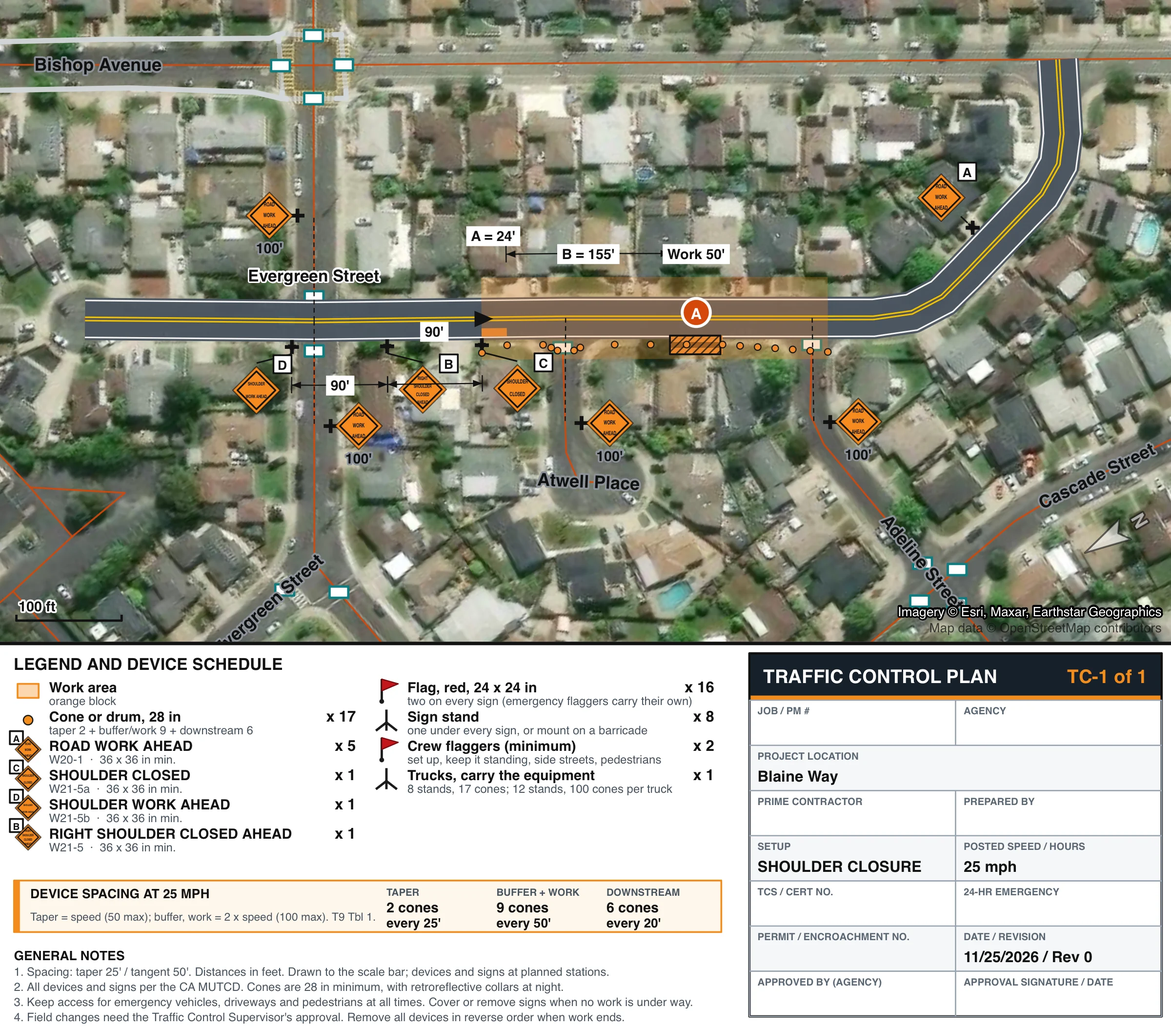
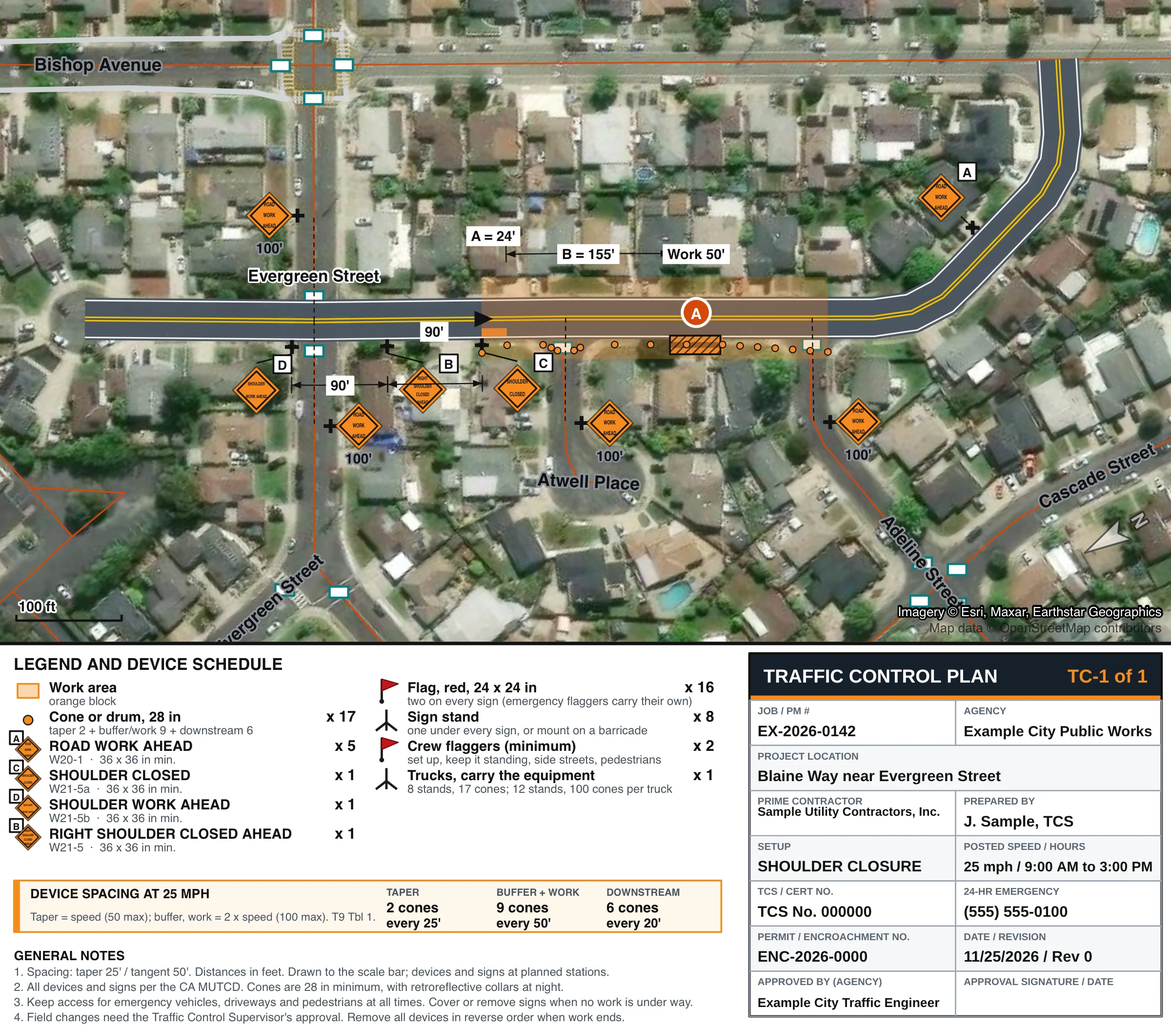
Homepage: filled-out submittal example (generic title block), new Submittal section
Claude-Session: https://claude.ai/code/session_013ikpAv8jeBeDqLtfD8VX2L

diff --git a/index.html b/index.html
@@ -153,6 +153,14 @@ footer a{color:#ffb77d}
 .price .card.pop::before{content:"Most popular";position:absolute;top:-12px;left:18px;background:var(--or);color:#fff;font-size:12px;font-weight:800;border-radius:99px;padding:3px 12px}
 .price ul{margin:10px 0 14px;padding-left:18px;color:var(--mut);font-size:15px}
 .price .btn{margin-top:auto;text-align:center}
+.sub{display:grid;grid-template-columns:minmax(0,1.5fr) minmax(0,1fr);gap:32px;align-items:start}
+.sub .paper{display:block;width:100%;padding:0;border:1px solid var(--line);background:#fff;cursor:zoom-in}
+.sub .paper img{display:block;width:100%;height:auto}
+.subtxt h3{margin:0 0 10px}
+.tbk{width:100%;border-collapse:collapse;font-size:15px}
+.tbk th,.tbk td{text-align:left;vertical-align:top;padding:8px 10px 8px 0;border-bottom:1px solid var(--line)}
+.tbk th{font-weight:600;width:38%;color:var(--mut)}
+@media(max-width:860px){.sub{grid-template-columns:1fr}}
 .sub2{margin-top:34px}
 .tiers{display:grid;gap:10px;margin:8px 0 6px}
 .tier{display:flex;gap:12px;align-items:flex-start;border:1.5px solid #b9b2a2;border-radius:11px;padding:12px 14px;cursor:pointer;background:#fff}
@@ -172,7 +180,7 @@ dialog#lb button{position:absolute;top:8px;right:8px;background:var(--ink);color
 
 <header class="top"><div class="wrap">
   <div class="brand" id="brand"><span class="lg"><svg class="lgo" aria-hidden="true" viewBox="0 0 64 64" xmlns="http://www.w3.org/2000/svg"><rect x="6" y="52" width="40" height="6" rx="1.5" fill="#14202b"/><path d="M26 6 L36 6 L44 52 L18 52 Z" fill="#f26a0a"/><path d="M28.6 18 L33.4 18 L34.8 26 L27.2 26 Z" fill="#fff"/><path d="M24.6 33 L37.4 33 L38.8 41 L23.2 41 Z" fill="#fff"/><path d="M40 58 L60 40" stroke="#f26a0a" stroke-width="3.5" stroke-linecap="round"/><path d="M48 58 H60" stroke="#f26a0a" stroke-width="3.5" stroke-linecap="round"/></svg></span><span class="bt"><b>CONE</b><small>Plans that pass</small></span></div>
-  <nav class="menu"><a class="opt" href="#samples">Read a plan</a><a class="opt" href="#why">Why CONE</a><a class="opt" href="#pricing">Pricing</a><a class="opt" href="#faq">Questions</a><a id="login" class="opt" href="#" hidden>Member login</a><a class="btn" href="#request">Request a plan</a></nav>
+  <nav class="menu"><a class="opt" href="#samples">Read a plan</a><a class="opt" href="#submittal">Submittal</a><a class="opt" href="#why">Why CONE</a><a class="opt" href="#pricing">Pricing</a><a class="opt" href="#faq">Questions</a><a id="login" class="opt" href="#" hidden>Member login</a><a class="btn" href="#request">Request a plan</a></nav>
 </div></header>
 
 <div class="hero"><div class="wrap">
@@ -195,7 +203,31 @@ dialog#lb button{position:absolute;top:8px;right:8px;background:var(--ink);color
     <div class="rsheet" id="rsheet"><img src="samples/blaine-way-shoulder-closure.webp" loading="lazy" width="2000" height="1756" alt="The example plan with numbered detail markers"></div>
     <div class="scope"><div class="zoom" id="zoom" role="img" aria-label="Close-up of the selected part of the plan"></div><ul id="rlist"></ul></div>
   </div>
-  <p class="rnote">This example is a real plan for a public street, with the title block left blank. Your plan carries your job name, agency and approval box.</p>
+  <p class="rnote">This example is a real plan for a public street. The job, company and permit details in the title block are made up. Yours carry your own.</p>
+</div></section>
+
+<section id="submittal" class="band"><div class="wrap">
+  <h2>Ready to hand to the city</h2>
+  <p class="lede">Every box on the sheet is filled in. The only thing left is the agency's signature.</p>
+  <div class="sub">
+    <button type="button" class="paper" data-zoom="samples/blaine-way-shoulder-closure-full.webp" data-cap="Example submittal: every title block field filled in with sample information" aria-label="Enlarge the finished plan"><img src="samples/blaine-way-shoulder-closure.webp" loading="lazy" width="2000" height="1756" alt="A completed traffic control plan with every title block field filled in and the approval signature box empty"></button>
+    <div class="subtxt">
+      <h3>What the reviewer finds</h3>
+      <table class="tbk">
+        <tr><th>Job and permit</th><td>EX-2026-0142, ENC-2026-0000</td></tr>
+        <tr><th>Agency</th><td>Example City Public Works</td></tr>
+        <tr><th>Location</th><td>Blaine Way near Evergreen Street</td></tr>
+        <tr><th>Contractor</th><td>Sample Utility Contractors, Inc.</td></tr>
+        <tr><th>Prepared by</th><td>J. Sample, TCS No. 000000</td></tr>
+        <tr><th>Setup</th><td>Shoulder closure, 25 mph</td></tr>
+        <tr><th>Hours</th><td>9:00 AM to 3:00 PM</td></tr>
+        <tr><th>24-hour contact</th><td>(555) 555-0100</td></tr>
+        <tr><th>Date and revision</th><td>11/25/2026, Rev 0</td></tr>
+        <tr><th>Approved by</th><td>Example City Traffic Engineer, signature and date left for the agency</td></tr>
+      </table>
+      <p class="rnote" style="margin-top:12px">All names, numbers and dates here are sample information, not a real company or certificate.</p>
+    </div>
+  </div>
 </div></section>
 
 <section id="why" class="band"><div class="wrap why">
